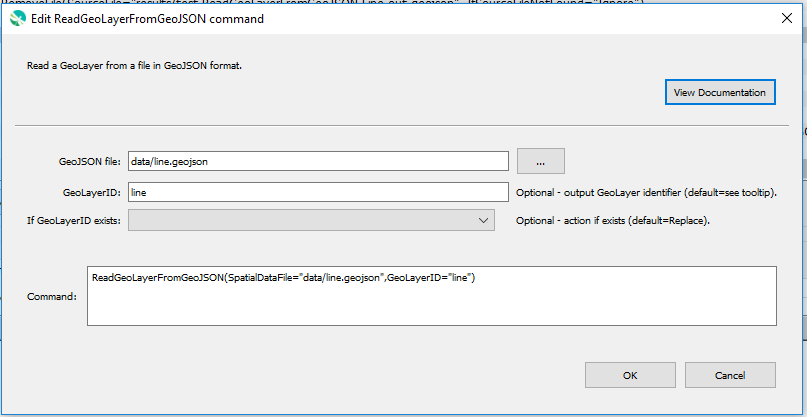
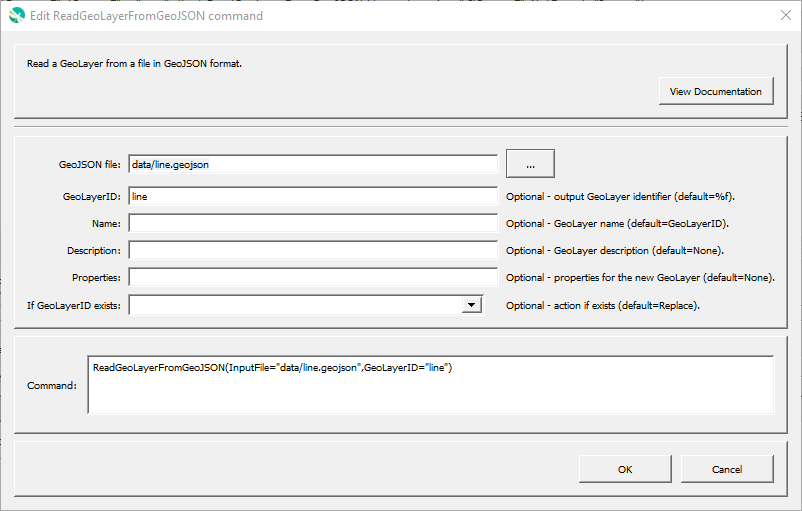
Update GeoLayer read commands to have optional Properties, issue #332

Changed region(s): [[0.0, 0.0, 1.0, 1.0], [0.0312, 0.0935, 0.3117, 0.1871], [0.0, 0.2806, 0.0312, 0.3118]]

diff --git a/mkdocs-project/docs/command-ref/ReadGeoLayersFromFGDB/ReadGeoLayersFromFGDB.md b/mkdocs-project/docs/command-ref/ReadGeoLayersFromFGDB/ReadGeoLayersFromFGDB.md
@@ -37,17 +37,20 @@ ReadGeoLayerFromFGDB(Parameter="Value",...)
 Command Parameters
 </p>**
 
-| **Parameter**&nbsp;&nbsp;&nbsp;&nbsp;&nbsp;&nbsp;&nbsp;&nbsp;&nbsp;&nbsp;&nbsp;&nbsp;&nbsp;&nbsp;&nbsp;&nbsp;&nbsp;&nbsp;&nbsp;&nbsp;&nbsp;&nbsp; | **Description** &nbsp;&nbsp;&nbsp;&nbsp;&nbsp;&nbsp;&nbsp;&nbsp;&nbsp;&nbsp;&nbsp;&nbsp;&nbsp;&nbsp;&nbsp;&nbsp;&nbsp;&nbsp;&nbsp;&nbsp;| **Default** |
+| **Parameter**&nbsp;&nbsp;&nbsp;&nbsp;&nbsp;&nbsp;&nbsp;&nbsp;&nbsp;&nbsp;&nbsp;&nbsp;&nbsp;&nbsp;&nbsp;&nbsp;&nbsp;&nbsp;&nbsp;&nbsp;&nbsp;&nbsp;&nbsp;&nbsp;&nbsp;&nbsp;&nbsp;&nbsp;&nbsp;&nbsp;&nbsp;&nbsp; | **Description** &nbsp;&nbsp;&nbsp;&nbsp;&nbsp;&nbsp;&nbsp;&nbsp;&nbsp;&nbsp;&nbsp;&nbsp;&nbsp;&nbsp;&nbsp;&nbsp;&nbsp;&nbsp;&nbsp;&nbsp;| **Default** |
 | --------------|-----------------|----------------- |
-| `SpatialDataFolder` <br>**required**| The file geodatabse to read (must end in `.gdb`). | None - must be specified. |
-| `ReadOnlyOneFeatureClass` <br>**required**| Boolean <br><br> If `TRUE`, only **one** feature class will be read as a GeoLayer. Must specify a valid feature class name. <br> If `FALSE`, **one or more** feature classes will be read as GeoLayers. Can specify the `Subset_Pattern` to select which feature classes to read.|
-|`IfGeoLayerIDExists` | The action that occurs if the `GeoLayerID` already exists within the GeoProcessor:<ul><li>`Replace` - The existing GeoLayer within the GeoProcessor is replaced with the new GeoLayer. No warning is logged.</li><li>`ReplaceAndWarn` - The existing GeoLayer within the GeoProcessor is replaced with the new GeoLayer. A warning is logged.</li><li>`Warn` - The new GeoLayer is not created. A warning is logged.</li><li>`Fail` - The new GeoLayer is not created. A fail message is logged.</li></ul>| `Replace` |
+| `InputFolder`<br>**required** | The file geodatabase to read (must end in `.gdb`). | None - must be specified. |
+| `ReadOnlyOneFeatureClass`<br>**required** | Boolean <br><br> If `TRUE`, only **one** feature class will be read as a GeoLayer. Must specify a valid feature class name. <br> If `FALSE`, **one or more** feature classes will be read as GeoLayers. Can specify the `Subset_Pattern` to select which feature classes to read.|
+| `IfGeoLayerIDExists` | The action that occurs if the `GeoLayerID` already exists within the GeoProcessor:<ul><li>`Replace` - The existing GeoLayer within the GeoProcessor is replaced with the new GeoLayer. No warning is logged.</li><li>`ReplaceAndWarn` - The existing GeoLayer within the GeoProcessor is replaced with the new GeoLayer. A warning is logged.</li><li>`Warn` - The new GeoLayer is not created. A warning is logged.</li><li>`Fail` - The new GeoLayer is not created. A fail message is logged.</li></ul>| `Replace` |
 ||**IF** `ReadOnlyOneFeatureClass` **is TRUE ...**||
-| `Feature Class` <br>**required**| The name of the feature class within the file geodatabase to read. [`${Property}` syntax](../../introduction/introduction.md#geoprocessor-properties-property) is recognized.| None - must be specified. |
-| `GeoLayerID`  <br>**required**| A GeoLayer identifier. [Formatting characters](../../introduction/introduction.md#geolayer-property-format-specifiers) and [`${Property}` syntax](../../introduction/introduction.md#geoprocessor-properties-property) are recognized. Refer to [documentation](../../best-practices/geolayer-identifiers.md) for best practices on naming GeoLayer identifiers.| None - must be specified. |
+| `Feature Class` <br>**required** | The name of the feature class within the file geodatabase to read. [`${Property}` syntax](../../introduction/introduction.md#geoprocessor-properties-property) is recognized.| None - must be specified. |
+| `GeoLayerID`  <br>**required** | A GeoLayer identifier. [Formatting characters](../../introduction/introduction.md#geolayer-property-format-specifiers) and [`${Property}` syntax](../../introduction/introduction.md#geoprocessor-properties-property) are recognized. Refer to [documentation](../../best-practices/geolayer-identifiers.md) for best practices on naming GeoLayer identifiers.| None - must be specified. |
 ||**IF** `ReadOnlyOneFeatureClass` **is FALSE ...**||
 | `GeoLayerID_prefix` | A GeoLayer identifier prefix. <br><br> GeoLayers read from a file geodatabase have an identifier in the `GeoLayerID_prefix_FeatureClass` format.| No prefix is used. The GeoLayerID is the name of the feature class. |
-| `Subset_Pattern` | The [glob-style](https://en.wikipedia.org/wiki/Glob_(programming)) pattern (e.g., `CO_*` or `*_[MC]O`) of feature classes to read from the file geodatabase.| No pattern is used. All feature classes within the file geodatabase are read.|
+| `Subset_Pattern` | The [glob-style](https://en.wikipedia.org/wiki/Glob_(programming)) pattern (e.g., `CO_*` or `*_[MC]O`) of feature classes to read from the file geodatabase.| No pattern is used. All feature classes within the file geodatabase are read. |
+| `Name` | Name of the output GeoLayer. | Feature class name. |
+| `Description` | Description for the output GeoLayer. | |
+| `Properties` | Additional properties to assign to the GeoLayer, using format: `prop1:value1,prop2:'string with space'`.  Can use `${Property}` notation.  | No additional properties are assigned. |
 
 ## Examples ##
 
@@ -62,7 +65,7 @@ ExampleFolder
 
 |Filename|File Type|
 | ---- | ----|
-| ExampleFileGDB.gdb    | Esri File Geodatabase	|
+| ExampleFileGDB.gdb | Esri File Geodatabase |
 
 **<p style="text-align: left;">
 ExampleFileGDB.gdb
@@ -79,7 +82,7 @@ ExampleFileGDB.gdb
 See the [automated tests](https://github.com/OpenWaterFoundation/owf-app-geoprocessor-python-test/tree/master/test/commands/ReadGeoLayersFromFGDB).
 
 ```
-ReadGeoLayersFromFGDB(SpatialDataFolder = "ExampleFolder/ExampleFileGDB.gdb")
+ReadGeoLayersFromFGDB(InputFolder="ExampleFolder/ExampleFileGDB.gdb")
 ```
 
 After running the command, the following GeoLayer IDs are registered within the GeoProcessor. 
@@ -93,7 +96,7 @@ After running the command, the following GeoLayer IDs are registered within the 
 ### Example 2: Add a Prefix to the GeoLayer IDs ###
 
 ```
-ReadGeoLayersFromFGDB(SpatialDataFolder = "ExampleFolder/ExampleFileGDB.gdb", GeoLayerID_Prefix = "StateData")
+ReadGeoLayersFromFGDB(InputFolder="ExampleFolder/ExampleFileGDB.gdb",GeoLayerID_Prefix="StateData")
 ```
 
 After running the command, the following GeoLayer IDs are registered within the GeoProcessor. Each of the registered GeoLayer IDs include the `StateData` prefix.
@@ -104,10 +107,10 @@ After running the command, the following GeoLayer IDs are registered within the 
 |StateData_ExampleFeatureClass2|
 |StateData_ExampleFeatureClass3|
 
-### Example 3: Read a Subset of Feature Classes From a File Geodatabase###
+### Example 3: Read a Subset of Feature Classes From a File Geodatabase ###
 
 ```
-ReadGeoLayersFromFGDB(SpatialDataFolder = "ExampleFolder/ExampleFileGDB.gdb", Subset_Pattern = "*3")
+ReadGeoLayersFromFGDB(InputFolder="ExampleFolder/ExampleFileGDB.gdb",Subset_Pattern="*3")
 ```
 
 After running the command, the following GeoLayer IDs are registered within the GeoProcessor.

diff --git a/mkdocs-project/docs/command-ref/ReadGeoLayerFromDelimitedFile/ReadGeoLayerFromDelimitedFile.md b/mkdocs-project/docs/command-ref/ReadGeoLayerFromDelimitedFile/ReadGeoLayerFromDelimitedFile.md
@@ -45,15 +45,16 @@ Command Parameters
 
 |**Parameter**&nbsp;&nbsp;&nbsp;&nbsp;&nbsp;&nbsp;&nbsp;&nbsp;&nbsp;&nbsp;&nbsp;&nbsp;&nbsp;&nbsp;&nbsp;&nbsp;&nbsp;&nbsp;&nbsp;&nbsp;&nbsp; | **Description** | **Default**&nbsp;&nbsp;&nbsp;&nbsp;&nbsp;&nbsp;&nbsp;&nbsp;&nbsp;&nbsp; |
 | --------------|-----------------|----------------- |
-| `DelimitedFile` <br> **required**| The delimited file to read (relative or absolute path). [`${Property}` syntax](../../introduction/introduction.md#geoprocessor-properties-property) is recognized.| None - must be specified. |
-|`CRS` <br> **required**|The [coordinate reference system](https://en.wikipedia.org/wiki/Spatial_reference_system) of the geometry in the delimited file. <br><br>[EPSG or ESRI code format](http://spatialreference.org/ref/epsg/) required (e.g. [`EPSG:4326`](http://spatialreference.org/ref/epsg/4326/), [`EPSG:26913`](http://spatialreference.org/ref/epsg/nad83-utm-zone-13n/), [`ESRI:102003`](http://spatialreference.org/ref/esri/usa-contiguous-albers-equal-area-conic/)).|None - must be specified. |
-|`GeometryFormat` <br> **required**|The geometry representation used within the delimited file. Must be one of the following options:<ul><li>`XY` - The geometry is stored in two columns of the delimited file. One column holds the `X` coordinates and the other column holds the `Y` coordinates.</li><li>`WKT` - The geometry is stored in one column of the delimited file. The geometry is in [Well Known Text](https://en.wikipedia.org/wiki/Well-known_text) representation.</li></ul>|None - must be specified. |
-|`XColumn`<br> *see Default*|The name of the column in the delimited file that holds the `X` coordinate data.|If `GeometryFormat` is `XY`, this parameter is **required**. Otherwise, this parameter is ignored.|
-|`YColumn`<br> *see Default*|The name of the column in the delimited file that holds the `Y` coordinate data.|If `GeometryFormat` is `XY`, this parameter is **required**. Otherwise, this parameter is ignored.|
-|`WKTColumn`<br> *see Default*|The name of the column in the delimited file that holds the `WKT` geometry data.|If `GeometryFormat` is `WKT`, this parameter is **required**. Otherwise, this parameter is ignored.|
-|`Delimiter`| The delimiter used to separate the columns of the delimited file.<br><br> Must enter the actual character instead of spelling the character. For example, `,` is correct but `COMMA` is not correct.|`,`|
-|`GeoLayerID`|A GeoLayer identifier. <br><br>[Formatting characters](../../introduction/introduction.md#geolayer-property-format-specifiers) are recognized. Refer to [documentation](../../best-practices/geolayer-identifiers.md) for best practices on naming GeoLayer identifiers.| The delimited filename without the leading path and without the file extension (equivalent to formatting character `%f`).|
-|`IfGeoLayerIDExists`|The action that occurs if the `GeoLayerID` already exists within the GeoProcessor:<ul><li>`Replace` - The existing GeoLayer within the GeoProcessor is replaced with the new GeoLayer. No warning is logged.</li><li>`ReplaceAndWarn` - The existing GeoLayer within the GeoProcessor is replaced with the new GeoLayer. A warning is logged.</li><li>`Warn` - The new GeoLayer is not created. A warning is logged.</li><li>`Fail` - The new GeoLayer is not created. A fail message is logged.</li></ul> | `Replace` | 
+| `DelimitedFile`<br>**required** | The delimited file to read (relative or absolute path). [`${Property}` syntax](../../introduction/introduction.md#geoprocessor-properties-property) is recognized.| None - must be specified. |
+| `CRS`<br>**required** | The [coordinate reference system](https://en.wikipedia.org/wiki/Spatial_reference_system) of the geometry in the delimited file. <br><br>[EPSG or ESRI code format](http://spatialreference.org/ref/epsg/) required (e.g. [`EPSG:4326`](http://spatialreference.org/ref/epsg/4326/), [`EPSG:26913`](http://spatialreference.org/ref/epsg/nad83-utm-zone-13n/), [`ESRI:102003`](http://spatialreference.org/ref/esri/usa-contiguous-albers-equal-area-conic/)).|None - must be specified. |
+| `GeometryFormat`<br>**required** | The geometry representation used within the delimited file. Must be one of the following options:<ul><li>`XY` - The geometry is stored in two columns of the delimited file. One column holds the `X` coordinates and the other column holds the `Y` coordinates.</li><li>`WKT` - The geometry is stored in one column of the delimited file. The geometry is in [Well Known Text](https://en.wikipedia.org/wiki/Well-known_text) representation.</li></ul>|None - must be specified. |
+| `XColumn`<br>*see Default* | The name of the column in the delimited file that holds the `X` coordinate data.|If `GeometryFormat` is `XY`, this parameter is **required**. Otherwise, this parameter is ignored. |
+| `YColumn`<br>*see Default* | The name of the column in the delimited file that holds the `Y` coordinate data.|If `GeometryFormat` is `XY`, this parameter is **required**. Otherwise, this parameter is ignored. |
+| `WKTColumn`<br>*see Default* | The name of the column in the delimited file that holds the `WKT` geometry data.|If `GeometryFormat` is `WKT`, this parameter is **required**. Otherwise, this parameter is ignored. |
+| `Delimiter` | The delimiter used to separate the columns of the delimited file.<br><br> Must enter the actual character instead of spelling the character. For example, `,` is correct but `COMMA` is not correct.|`,`|
+| `GeoLayerID` | A GeoLayer identifier. <br><br>[Formatting characters](../../introduction/introduction.md#geolayer-property-format-specifiers) are recognized. Refer to [documentation](../../best-practices/geolayer-identifiers.md) for best practices on naming GeoLayer identifiers.| The delimited filename without the leading path and without the file extension (equivalent to formatting character `%f`). |
+| `Properties` | Additional properties to assign to the GeoLayer, using format: `prop1:value1,prop2:'string with space'`.  Can use `${Property}` notation.  | No additional properties are assigned. |
+| `IfGeoLayerIDExists` | The action that occurs if the `GeoLayerID` already exists within the GeoProcessor:<ul><li>`Replace` - The existing GeoLayer within the GeoProcessor is replaced with the new GeoLayer. No warning is logged.</li><li>`ReplaceAndWarn` - The existing GeoLayer within the GeoProcessor is replaced with the new GeoLayer. A warning is logged.</li><li>`Warn` - The new GeoLayer is not created. A warning is logged.</li><li>`Fail` - The new GeoLayer is not created. A fail message is logged.</li></ul> | `Replace` | 
 
 ## Examples ##
 

diff --git a/mkdocs-project/docs/command-ref/CreateGeoLayerFromGeometry/CreateGeoLayerFromGeometry.md b/mkdocs-project/docs/command-ref/CreateGeoLayerFromGeometry/CreateGeoLayerFromGeometry.md
@@ -49,13 +49,14 @@ Command Parameters
 
 | **Parameter**&nbsp;&nbsp;&nbsp;&nbsp;&nbsp;&nbsp;&nbsp;&nbsp;&nbsp;&nbsp;&nbsp;&nbsp;&nbsp;&nbsp;&nbsp;&nbsp;&nbsp;&nbsp;&nbsp;&nbsp;&nbsp;&nbsp;&nbsp;&nbsp;&nbsp;&nbsp; | **Description** | **Default**&nbsp;&nbsp;&nbsp;&nbsp;&nbsp;&nbsp;&nbsp;&nbsp;&nbsp;&nbsp;&nbsp;&nbsp;&nbsp;&nbsp;&nbsp;&nbsp;&nbsp;&nbsp; |
 | --------------|-----------------|----------------- |
-| `NewGeoLayerID` <br> **required** | The ID of the new GeoLayer. | None - must be specified. |
+| `NewGeoLayerID`<br>**required** | The ID of the new GeoLayer. | None - must be specified. |
 | `Name` | Name of the output GeoLayer. | `NewGeoLayerID` |
 | `Description` | Description for the output GeoLayer. | |
-| `GeometryFormat` <br> **required** |The format of the `GeometryData`. Choose from one of the options below:<ul><li>`WKT` - [Well-Known Text](https://en.wikipedia.org/wiki/Well-known_text) is text representing vector geometry.</li><li>`BoundingBox`- [Bounding Box Coordinates](https://wiki.openstreetmap.org/wiki/Bounding_Box) are a list of 4 coordinates representing the minimum and maximum latitude and longitude of a `POLYGON` vector.</li><li>`WKB` - [Well-Known Binary](https://en.wikipedia.org/wiki/Well-known_text#Well-known_binary) is hexadecimal text representing vector geometry.</li></ul> | None - must be specified. |
-| `GeometryData` <br> **required** |The geometry data for the new GeoLayer. The units are the same as the units of the coordinate reference system (`CRS`).<ul><li>`GeometryFormat` is `WKT`, use the syntax provided in the [reference](https://en.wikipedia.org/wiki/Well-known_text#Well-known_binary).</li><li>If `GeometryFormat` is `BoundingBox`, specify the coordinates as comma-separated values in the following order:<ul><li>the left bound (minimum longitude)</li><li>the bottom bound (minimum latitude)</li><li>the right bound (maximum longitude)</li><li>the top (maximum latitude) bound</li></ul></li>If `GeometryFormat` is `WKB`, use the syntax provided in the [reference](https://en.wikipedia.org/wiki/Well-known_text#Well-known_binary).</li></ul>| None - must be specified.  |
-|`CRS` <br> **required** | The [coordinate reference system](https://en.wikipedia.org/wiki/Spatial_reference_system) of the new GeoLayer. [EPSG or ESRI code format](http://spatialreference.org/ref/epsg/) required (e.g. [`EPSG:4326`](http://spatialreference.org/ref/epsg/4326/), [`EPSG:26913`](http://spatialreference.org/ref/epsg/nad83-utm-zone-13n/), [`ESRI:102003`](http://spatialreference.org/ref/esri/usa-contiguous-albers-equal-area-conic/)). |None - must be specified. |
-|`IfGeoLayerIDExists`|The action that occurs if the `NewGeoLayerID` already exists within the GeoProcessor:<ul><li>`Replace` - The existing GeoLayer within the GeoProcessor is replaced with the new GeoLayer. No warning is logged.</li><li>`ReplaceAndWarn` - The existing GeoLayer within the GeoProcessor is replaced with the new GeoLayer. A warning is logged.</li><li>`Warn` - The new GeoLayer is not created. A warning is logged.</li><li>`Fail` - The new GeoLayer is not created. A fail message is logged.</li></ul> | `Replace` | 
+| `GeometryFormat`<br>**required** | The format of the `GeometryData`. Choose from one of the options below:<ul><li>`WKT` - [Well-Known Text](https://en.wikipedia.org/wiki/Well-known_text) is text representing vector geometry.</li><li>`BoundingBox`- [Bounding Box Coordinates](https://wiki.openstreetmap.org/wiki/Bounding_Box) are a list of 4 coordinates representing the minimum and maximum latitude and longitude of a `POLYGON` vector.</li><li>`WKB` - [Well-Known Binary](https://en.wikipedia.org/wiki/Well-known_text#Well-known_binary) is hexadecimal text representing vector geometry.</li></ul> | None - must be specified. |
+| `GeometryData`<br>**required** | The geometry data for the new GeoLayer. The units are the same as the units of the coordinate reference system (`CRS`).<ul><li>`GeometryFormat` is `WKT`, use the syntax provided in the [reference](https://en.wikipedia.org/wiki/Well-known_text#Well-known_binary).</li><li>If `GeometryFormat` is `BoundingBox`, specify the coordinates as comma-separated values in the following order:<ul><li>the left bound (minimum longitude)</li><li>the bottom bound (minimum latitude)</li><li>the right bound (maximum longitude)</li><li>the top (maximum latitude) bound</li></ul></li>If `GeometryFormat` is `WKB`, use the syntax provided in the [reference](https://en.wikipedia.org/wiki/Well-known_text#Well-known_binary).</li></ul>| None - must be specified.  |
+| `CRS` <br> **required** | The [coordinate reference system](https://en.wikipedia.org/wiki/Spatial_reference_system) of the new GeoLayer. [EPSG or ESRI code format](http://spatialreference.org/ref/epsg/) required (e.g. [`EPSG:4326`](http://spatialreference.org/ref/epsg/4326/), [`EPSG:26913`](http://spatialreference.org/ref/epsg/nad83-utm-zone-13n/), [`ESRI:102003`](http://spatialreference.org/ref/esri/usa-contiguous-albers-equal-area-conic/)). |None - must be specified. |
+| `Properties` | Additional properties to assign to the GeoLayer, using format: `prop1:value1,prop2:'string with space'`.  Can use `${Property}` notation.  | No additional properties are assigned. |
+| `IfGeoLayerIDExists` | The action that occurs if the `NewGeoLayerID` already exists within the GeoProcessor:<ul><li>`Replace` - The existing GeoLayer within the GeoProcessor is replaced with the new GeoLayer. No warning is logged.</li><li>`ReplaceAndWarn` - The existing GeoLayer within the GeoProcessor is replaced with the new GeoLayer. A warning is logged.</li><li>`Warn` - The new GeoLayer is not created. A warning is logged.</li><li>`Fail` - The new GeoLayer is not created. A fail message is logged.</li></ul> | `Replace` | 
 
 ## Examples ##
 

diff --git a/mkdocs-project/docs/command-ref/ReadGeoLayerFromShapefile/ReadGeoLayerFromShapefile.md b/mkdocs-project/docs/command-ref/ReadGeoLayerFromShapefile/ReadGeoLayerFromShapefile.md
@@ -14,9 +14,6 @@
 The `ReadGeoLayerFromShapefile` command reads a [GeoLayer](../../introduction/introduction.md#geolayer)
 from a file in [Esri Shapefile format](../../spatial-data-format-ref/EsriShapefile/EsriShapefile.md). 
 
-* The coordinate reference system of the shapefile is retained within the GeoLayer.
-* The attributes of the shapefile are retained within the GeoLayer.
-
 ## Command Editor ##
 
 The following dialog is used to edit the command and illustrates the command syntax.
@@ -42,18 +39,14 @@ Command Parameters
 
 |**Parameter**&nbsp;&nbsp;&nbsp;&nbsp;&nbsp;&nbsp;&nbsp;&nbsp;&nbsp;&nbsp;&nbsp;&nbsp;&nbsp;&nbsp;&nbsp;&nbsp;&nbsp;&nbsp;&nbsp;&nbsp;&nbsp; | **Description** | **Default**&nbsp;&nbsp;&nbsp;&nbsp;&nbsp;&nbsp;&nbsp;&nbsp;&nbsp;&nbsp; |
 | --------------|-----------------|----------------- |
-| `SpatialDataFile` <br>**required**| The Esri Shapefile to read (relative or absolute path; must end in `.shp`). [`${Property}` syntax](../../introduction/introduction.md#geoprocessor-properties-property) is recognized.| None - must be specified. |
+| `InputFile`<br>**required**| The Esri Shapefile to read (relative or absolute path; must end in `.shp`). [`${Property}` syntax](../../introduction/introduction.md#geoprocessor-properties-property) is recognized.| None - must be specified. |
 | `GeoLayerID`| A GeoLayer identifier. [Formatting characters](../../introduction/introduction.md#geolayer-property-format-specifiers) and [`${Property}` syntax](../../introduction/introduction.md#geoprocessor-properties-property) are recognized. Refer to [documentation](../../best-practices/geolayer-identifiers.md) for best practices on naming GeoLayer identifiers.| The shapefile filename without the leading path and without the file extension. (Formatting character `%f`)|
-|`IfGeoLayerIDExists`|The action that occurs if the `GeoLayerID` already exists within the GeoProcessor:<ul><li>`Replace` - The existing GeoLayer within the GeoProcessor is replaced with the new GeoLayer. No warning is logged.</li><li>`ReplaceAndWarn` - The existing GeoLayer within the GeoProcessor is replaced with the new GeoLayer. A warning is logged.</li><li>`Warn` - The new GeoLayer is not created. A warning is logged.</li><li>`Fail` - The new GeoLayer is not created. A fail message is logged.</li></ul> | `Replace` | 
+| `Properties` | Additional properties to assign to the GeoLayer, using format: `prop1:value1,prop2:'string with space'`.  Can use `${Property}` notation.  | No additional properties are assigned. |
+| `IfGeoLayerIDExists` | The action that occurs if the `GeoLayerID` already exists within the GeoProcessor:<ul><li>`Replace` - The existing GeoLayer within the GeoProcessor is replaced with the new GeoLayer. No warning is logged.</li><li>`ReplaceAndWarn` - The existing GeoLayer within the GeoProcessor is replaced with the new GeoLayer. A warning is logged.</li><li>`Warn` - The new GeoLayer is not created. A warning is logged.</li><li>`Fail` - The new GeoLayer is not created. A fail message is logged.</li></ul> | `Replace` | 
 
 ## Examples ##
 
 See the [automated tests](https://github.com/OpenWaterFoundation/owf-app-geoprocessor-python-test/tree/master/test/commands/ReadGeoLayerFromShapefile).
-
-The following folder, `ExampleFolder`, and its contents are used for the examples. 
-The `ExampleFolder` is not an actual existing folder.
-It is used in this documentation to explain how the [`ReadGeoLayerFromShapefile`](../ReadGeoLayerFromShapefile/ReadGeoLayerFromShapefile.md)
-command interacts with similar, existing folders on your local machine.
 
 **<p style="text-align: left;">
 ExampleFolder
@@ -61,15 +54,15 @@ ExampleFolder
 
 |Filename|File Type|
 | ---- | ----|
-| ExampleFile1.shp     | Shapefile	|
-| ExampleFile1.shx		| Shapefile component file|
-| ExampleFile1.dbf		| Shapefile component file |
-| ExampleFile1.prj 		| Shapefile component file |
+| ExampleFile1.shp | Shapefile|
+| ExampleFile1.shx | Shapefile component file|
+| ExampleFile1.dbf | Shapefile component file |
+| ExampleFile1.prj | Shapefile component file |
 
 ### Example 1: Read a GeoLayer from a Shapefile ###
 
 ```
-ReadGeoLayerFromShapefile(SpatialDataFile = "ExampleFolder/ExampleFile1.shp")
+ReadGeoLayerFromShapefile(InputFile="ExampleFile1.shp")
 ```
 
 After running the command, the following GeoLayer IDs are registered within the GeoProcessor. 
@@ -81,7 +74,7 @@ After running the command, the following GeoLayer IDs are registered within the 
 ### Example 2: Assign a Unique GeoLayer ID  ###
 
 ```
-ReadGeoLayerFromShapefile(SpatialDataFile = "ExampleFolder/ExampleFile1.shp", GeoLayerID = "StateBoundary")
+ReadGeoLayerFromShapefile(InputFile="ExampleFile1.shp",GeoLayerID="StateBoundary")
 ```
 
 After running the command, the following GeoLayer IDs are registered within the GeoProcessor. 
@@ -90,13 +83,13 @@ After running the command, the following GeoLayer IDs are registered within the 
 |------|
 |StateBoundary|
 
-### Example 3: Invalid SpatialDataFile Value ###
+### Example 3: Invalid InputFile Value ###
 
 ```
-ReadGeoLayerFromShapefile(SpatialDataFile = "ExampleFolder/ExampleFile1.shx",GeoLayerID = "StateBoundary")
+ReadGeoLayerFromShapefile(InputFile="ExampleFile1.shx",GeoLayerID="StateBoundary")
 ```
 
-After running the command, no GeoLayerIDs are registered within the GeoProcessor because the `SpatialDataFile` directs to a `.shx` file rather than a `.shp` file. 
+After running the command, no GeoLayerIDs are registered within the GeoProcessor because the `InputFile` directs to a `.shx` file rather than a `.shp` file. 
 
 |Registered GeoLayer IDs|
 |------|

diff --git a/mkdocs-project/docs/command-ref/ReadGeoLayerFromGeoJSON/ReadGeoLayerFromGeoJSON.md b/mkdocs-project/docs/command-ref/ReadGeoLayerFromGeoJSON/ReadGeoLayerFromGeoJSON.md
@@ -14,9 +14,6 @@
 The `ReadGeoLayerFromGeoJSON` command reads a [GeoLayer](../../introduction/introduction.md#geolayer)
 from a file in [GeoJSON format](../../spatial-data-format-ref/GeoJSON/GeoJSON.md). 
 
-* The coordinate reference system of the GeoJSON file is retained within the GeoLayer.
-* The attributes of the GeoJSON file are retained within the GeoLayer.
-
 ## Command Editor ##
 
 The following dialog is used to edit the command and illustrates the command syntax.
@@ -42,9 +39,10 @@ Command Parameters
 
 |**Parameter**&nbsp;&nbsp;&nbsp;&nbsp;&nbsp;&nbsp;&nbsp;&nbsp;&nbsp;&nbsp;&nbsp;&nbsp;&nbsp;&nbsp;&nbsp;&nbsp;&nbsp;&nbsp;&nbsp;&nbsp;&nbsp; | **Description** | **Default**&nbsp;&nbsp;&nbsp;&nbsp;&nbsp;&nbsp;&nbsp;&nbsp;&nbsp;&nbsp; |
 | --------------|-----------------|----------------- |
-| `SpatialDataFile` <br>**required**| The GeoJSON file to read (relative or absolute path). [`${Property}` syntax](../../introduction/introduction.md#geoprocessor-properties-property) is recognized.| None - must be specified. |
+| `InputFile`<br>**required**| The GeoJSON file to read (relative or absolute path). [`${Property}` syntax](../../introduction/introduction.md#geoprocessor-properties-property) is recognized.| None - must be specified. |
 | `GeoLayerID` | A GeoLayer identifier. [Formatting characters](../../introduction/introduction.md#geolayer-property-format-specifiers) and [`${Property}` syntax](../../introduction/introduction.md#geoprocessor-properties-property) is recognized. Refer to [documentation](../../best-practices/geolayer-identifiers.md) for best practices on naming GeoLayer identifiers.| The GeoJSON filename without the leading path and without the file extension. (Formatting character `%f`)|
-|`IfGeoLayerIDExists`<br> *optional*|The action that occurs if the `GeoLayerID` already exists within the GeoProcessor:<ul><li>`Replace` - The existing GeoLayer within the GeoProcessor is replaced with the new GeoLayer. No warning is logged.</li><li>`ReplaceAndWarn` - The existing GeoLayer within the GeoProcessor is replaced with the new GeoLayer. A warning is logged.</li><li>`Warn` - The new GeoLayer is not created. A warning is logged.</li><li>`Fail` - The new GeoLayer is not created. A fail message is logged.</li></ul> | `Replace` | 
+| `Properties` | Additional properties to assign to the GeoLayer, using format: `prop1:value1,prop2:'string with space'`.  Can use `${Property}` notation.  | No additional properties are assigned. |
+| `IfGeoLayerIDExists` | The action that occurs if the `GeoLayerID` already exists within the GeoProcessor:<ul><li>`Replace` - The existing GeoLayer within the GeoProcessor is replaced with the new GeoLayer. No warning is logged.</li><li>`ReplaceAndWarn` - The existing GeoLayer within the GeoProcessor is replaced with the new GeoLayer. A warning is logged.</li><li>`Warn` - The new GeoLayer is not created. A warning is logged.</li><li>`Fail` - The new GeoLayer is not created. A fail message is logged.</li></ul> | `Replace` | 
 
 ## Examples ##
 
@@ -61,13 +59,13 @@ ExampleFolder
 
 |Filename|File Type|
 | ---- | ----|
-| ExampleFile1.geojson  | GeoJSON	|
-| ExampleFile2.geojson	| GeoJSON	|
+| ExampleFile1.geojson | GeoJSON |
+| ExampleFile2.geojson | GeoJSON |
 
 ### Example 1: Read a GeoLayer from a GeoJSON File ###
 
 ```
-ReadGeoLayerFromGeoJSON(SpatialDataFile = "ExampleFolder/ExampleFile1.geojson")
+ReadGeoLayerFromGeoJSON(InputFile="ExampleFolder/ExampleFile1.geojson")
 ```
 
 After running the command, the following GeoLayer IDs are registered within the GeoProcessor. 
@@ -79,7 +77,7 @@ After running the command, the following GeoLayer IDs are registered within the 
 ### Example 2: Assign a Unique GeoLayer ID###
 
 ```
-ReadGeoLayerFromGeoJSON(SpatialDataFile = "ExampleFolder/ExampleFile1.geojson", GeoLayerID = "StateBoundary")
+ReadGeoLayerFromGeoJSON(InputFile="ExampleFolder/ExampleFile1.geojson",GeoLayerID="StateBoundary")
 ```
 
 After running the command, the following GeoLayer IDs are registered within the GeoProcessor. 

diff --git a/mkdocs-project/docs/command-ref/For/For.md b/mkdocs-project/docs/command-ref/For/For.md
@@ -86,7 +86,7 @@ In this example the county name is used in GeoLayer filenames.
 SetProperty(PropertyName="CountyList",PropertyType="str",PropertyValues="Adams,Washington,Jefferson")
 For(Name="Counties",IteratorProperty="County",ListProperty="CountyList")
   # Process a file for each county
-  ReadGeoLayerFromGeoJSON(SpatialDataFile="${County}-census.geojson",GeoLayerID=${County}-census-population")
+  ReadGeoLayerFromGeoJSON(InputFile="${County}-census.geojson",GeoLayerID=${County}-census-population")
 EndFor(Name="Counties")
 ```
 
